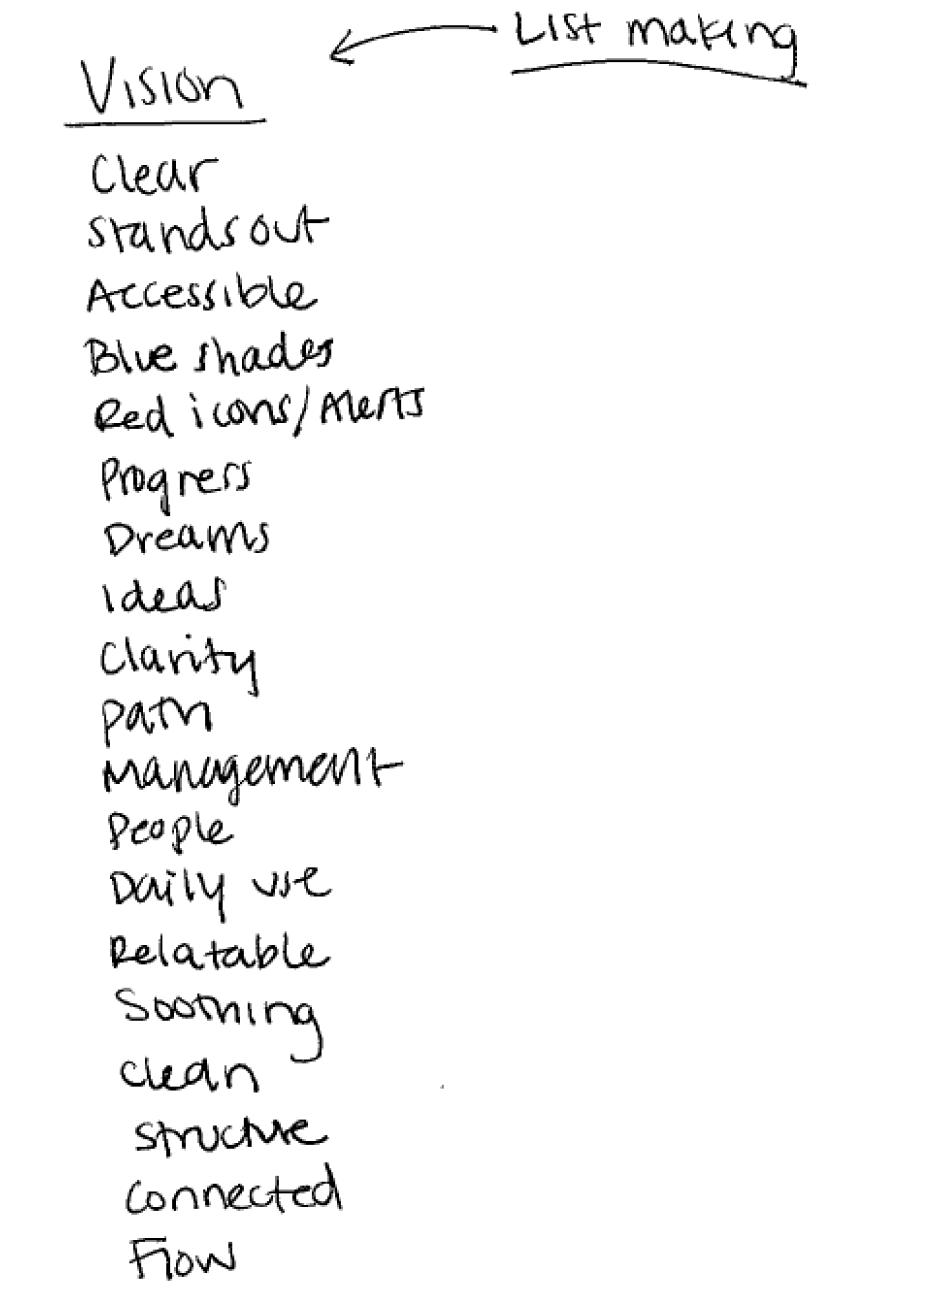
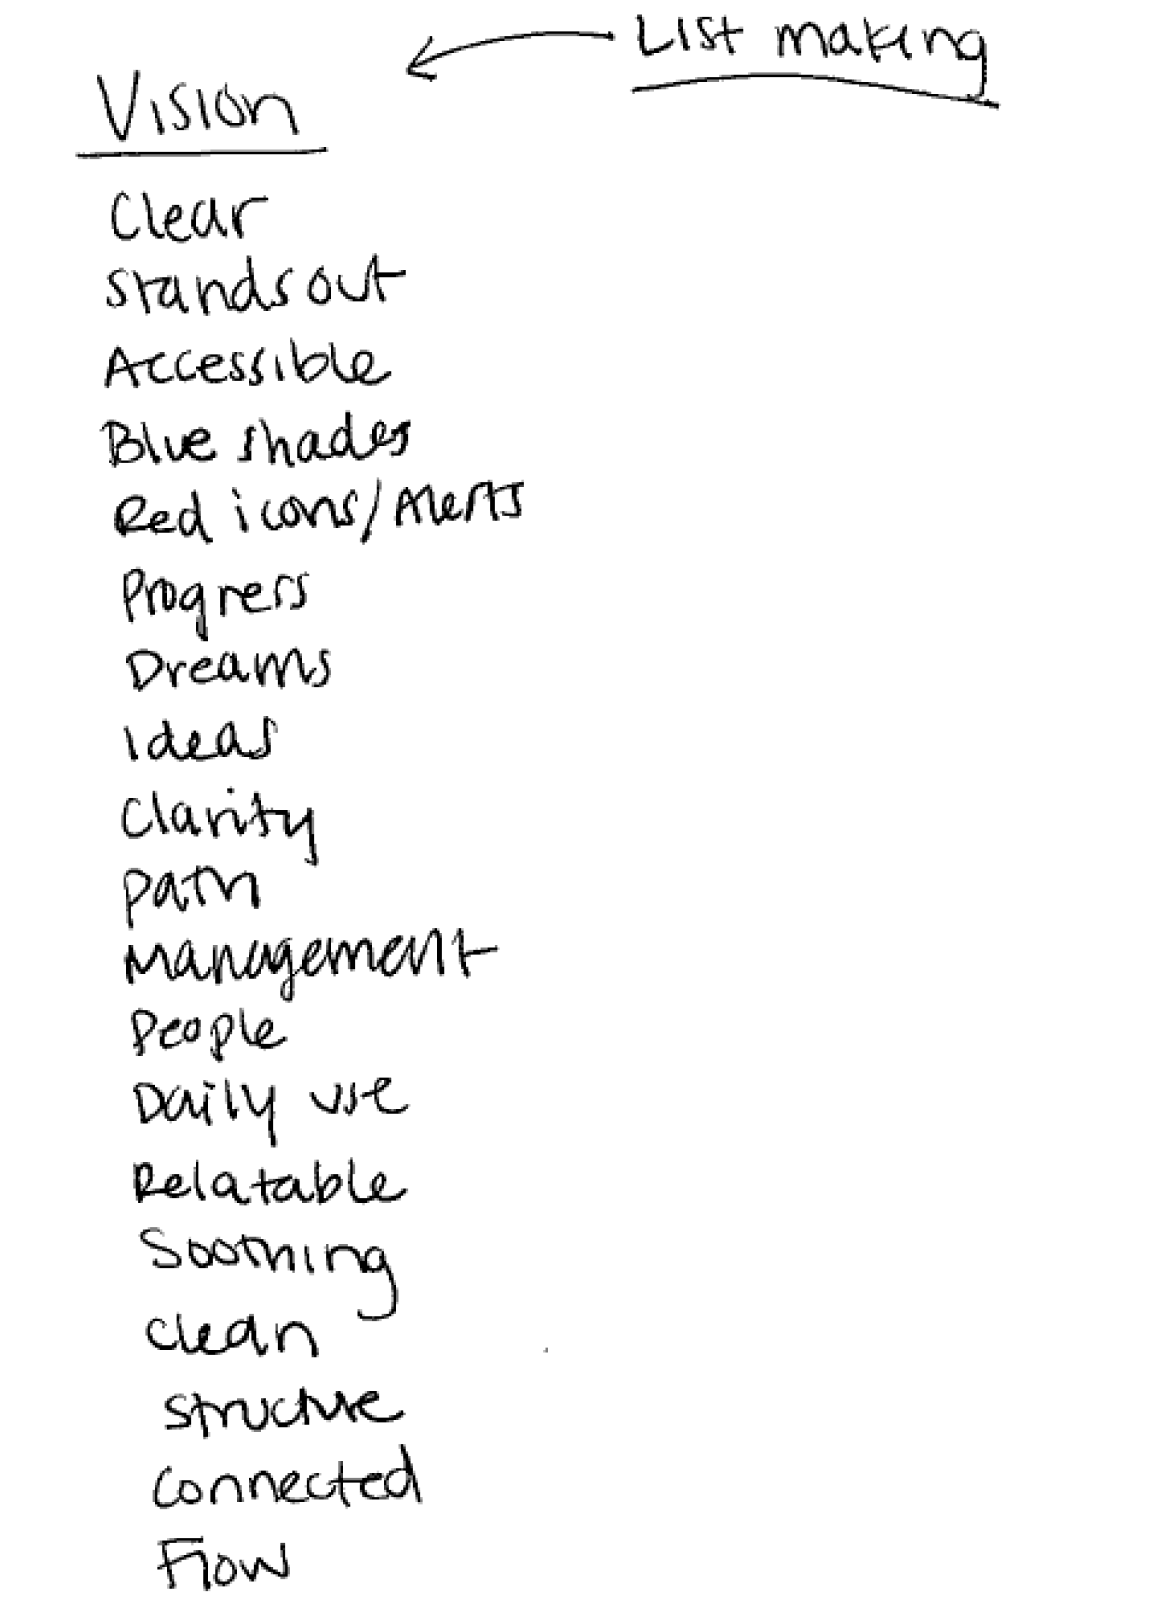
type

diff --git a/project.html b/project.html
@@ -125,7 +125,7 @@
                   <a href="https://docs.google.com/document/d/1gnw5JfLjWsi2-l_1J86oFoY_YDmTDkYvC2INiD7Vbvc/edit" class="button" target="_blank">VIEW SURVEY</a>
                 </article>
                 <article>
-                  <h3>Competitve Analysis</h3>
+                  <h3>Competitive Analysis</h3>
                   <div class="competitors">
                       <img src="images/competitors.png" alt="google-drive-logo" class="center" id="competitors">
                   </div>
@@ -155,7 +155,7 @@
             <h1>Information Architecture</h1>
               <article>
                 <h3>User Stories</h3>
-                  <p>Derived from the goals and frustrations,
+                  <p class="text-center">Derived from the goals and frustrations,
                     I created User Stories that show the users potential tasks.
                   </p>
                   <img src="images/user-stories.png" alt="" class="center eighty-vw">
@@ -206,15 +206,17 @@
                     <h3>Research and Sketching</h3>
                       <p>In order to decide on a brand name, I created a mind map based on our user personas and words that arose when talking about cloud storage.
                       </p>
-                      <img src="images/mindmap.png" alt="" class="center eighty-vw">
-                      <img src="images/list-making.png" alt="" class="center eighty-vw">
+                      <div class="map-and-list">
+                        <img src="images/mindmap.png" alt="" class="center map eighty-vw">
+                        <img src="images/list-making.png" alt="" class="center list eighty-vw">
+                      </div>
                       <p>Our product helps turn dreams and ideas into a reality by having everything you need in one place. From our mind mapping experience, I decided on the brand name: Vision, and created a list of words that come to mind when thinking
                         about vision.</p>
 
                       <p>Vision incorporates our product's mission of aligning with your vision or goal, with the added opportunity to create vision boards. I knew I wanted the V in Vision to be part of the logo and for users to feel a sense of clarity and
                         a clear path to reach their destination.
                       </p>
-                      <img src="images/vision-sketches.png" alt="" class="center eighty-vw">
+                      <img src="images/vision-sketches.png" alt="" class="center logo-sketches eighty-vw">
                   </article>
                   <article>
                     <h3>Refining</h3>
@@ -228,10 +230,12 @@
                     <h3>Style Guide</h3>
                       <p class="change-font">Logos
                       </p>
-                      <img src="images/main-logo.png" alt="" class="center main-logo">
-                      <img src="images/vision-type-logo.png" alt="" class="center eighty-vw">
+                      <div class="style-guide-logos">
+                        <img src="images/main-logo.png" alt="" class="center large-logo main-logo">
+                        <img src="images/vision-type-logo.png" alt="" class="center text-logos eighty-vw">
+                      </div>
                       <p class="change-font">Color Palette</p>
-                      <img src="images/color-palette.png" alt="" class="center eighty-vw">
+                      <img src="images/color-palette.png" alt="" class="center palette eighty-vw">
                       <p class="change-font">Typeface</p>
                       <ul class="typeface">
                         <li>H1 - Muli Bold 36 pts</li>
@@ -257,11 +261,17 @@
                   <h3>Hi-Fidelity Prototype</h3>
                     <p> With the style guide created, I built out the first high fidelity desktop and mobile prototype and conducted preference tests to ensure positive design decisions. It was important to make sure that both mobile and desktop designs
                       remained cohesive.</p>
-                    <img src="images/usability-test-1.png" alt="" class="center eighty-vw">
-                      <p> 52% of users chose swiping to view each section.</p>
-                    <img src="images/usability-test-2.png" alt="" class="center eighty-vw">
-                      <p> 52% of users chose the blue sections over dividers.</p>
-                    <img src="images/first-hifi.png" alt="" class="center eighty-vw">
+                      <div class="hi-fi-testing">
+                        <div class="ut-1">
+                          <img src="images/usability-test-1.png" alt="" class="center eighty-vw">
+                            <p> 52% of users chose swiping to view each section.</p>
+                        </div>
+                        <div class="ut-2">
+                          <img src="images/usability-test-2.png" alt="" class="center eighty-vw">
+                            <p> 52% of users chose the blue sections over dividers.</p>
+                        </div>
+                      </div>
+                    <img src="images/first-hifi.png" alt="" class="center first-hifi eighty-vw">
                     <p>From the preference test for the Quick Access and Drive layouts, I learned that half the users chose the horizontal swiping to view each section over clicking the carrot to change, and then vertical scrolling. From this I decided to
                       try a new approach that allowed users to easily change without excessive scrolling.
 
@@ -277,8 +287,10 @@
                     </p>
                     <img src="images/desktop-1.png" alt="" class="center desktop">
                     <img src="images/desktop-2.png" alt="" class="center desktop">
-                    <img src="images/mobile-1.png" alt="" class="center mobile-proto">
-                    <img src="images/mobile-2.png" alt="" class="center mobile-proto">
+                    <div class="final-mobile">
+                      <img src="images/mobile-1.png" alt="" class="center mob-1 mobile-proto">
+                      <img src="images/mobile-2.png" alt="" class="center mob-2 mobile-proto">
+                    </div>
                 </article>
                 <article>
                   <h3>Conclusion + Takeaways</h3>

diff --git a/styles/style.css b/styles/style.css
@@ -797,19 +797,19 @@ ul p {
   .laura {
     display: inline-block;
     padding: 10px;
-    width: 30%;
+    width: 25%;
   }
 
   .jess {
     display: inline-block;
     padding: 10px;
-    width: 30%;
+    width: 25%;
   }
 
   .alex {
     display: inline-block;
     padding: 10px;
-    width: 30%;
+    width: 25%;
   }
 }
 
@@ -868,3 +868,99 @@ ul p {
 
 
 /* BRANDING AND IDENTITY */
+@media screen and (min-width: 991px) {
+  .map-and-list {
+    width: 100%;
+    display: flex;
+    justify-content: center;
+    padding-top: 72px;
+    padding-bottom: 72px;
+  }
+
+  .map {
+    display: inline-block;
+    padding: 10px;
+    width: 60%;
+  }
+
+  .list {
+    display: inline-block;
+    padding: 10px;
+    width: 40%;
+  }
+
+  .logo-sketches {
+    width: 80%;
+  }
+
+  .style-guide-logos {
+    width: 100%;
+    display: flex;
+    justify-content: center;
+    padding-top: 72px;
+    padding-bottom: 72px;
+  }
+
+  .large-logo {
+    display: inline-block;
+    padding: 10px;
+    width: 30%;
+  }
+
+  .text-logos {
+    display: inline-block;
+    padding: 10px;
+    width: 70%;
+  }
+
+  .palette {
+    width: 70%;
+  }
+}
+
+/* VISUAL DEISIGN */
+@media screen and (min-width: 991px) {
+  .hi-fi-testing {
+    width: 100%;
+    display: flex;
+    justify-content: center;
+    padding-top: 72px;
+    padding-bottom: 72px;
+  }
+
+  .ut-1 {
+    display: inline-block;
+    padding: 10px;
+    width: 50%;
+    text-align: center;
+  }
+
+  .ut-2 {
+    display: inline-block;
+    padding: 10px;
+    width: 50%;
+    text-align: center;
+  }
+
+  .first-hifi {
+    width: 80%;
+  }
+
+  .final-mobile {
+    width: 100%;
+    display: flex;
+    justify-content: center;
+    padding-top: 72px;
+    padding-bottom: 72px;
+  }
+
+  .mob-1 {
+    display: inline-block;
+    width: 40%;
+  }
+
+  .mob-2 {
+    display: inline-block;
+    width: 40%;
+  }
+}
